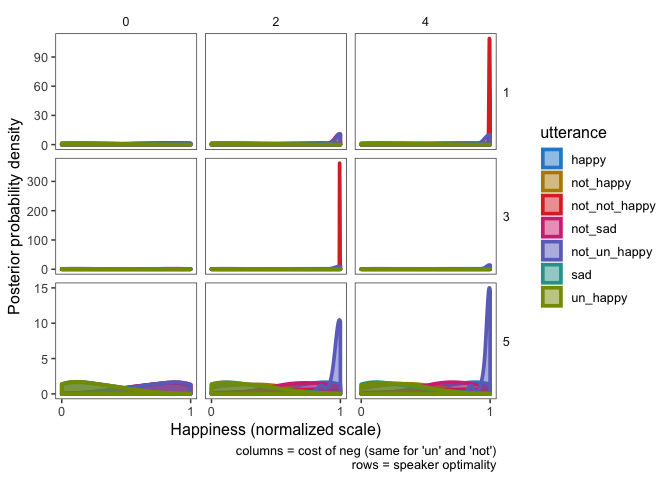
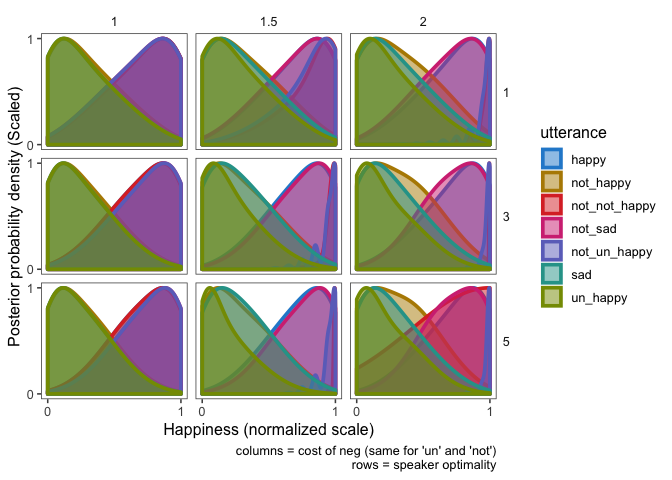
update model simulations with better multicost fn

diff --git a/models/multiplicativeCost-models.md b/models/multiplicativeCost-models.md
@@ -4,7 +4,7 @@ MH Tessler
 March 11, 2019
 
 ``` r
-knitr::opts_chunk$set(warning=F, cache=T, message=F, sanitize = T)
+knitr::opts_chunk$set(warning=F, cache=F, message=F, sanitize = T)
 ```
 
 ``` r
@@ -41,7 +41,7 @@ If “sad” is in alternative set, new threshold for “sad”
 ``` r
 pragListener.params <- expand.grid(
   speaker_optimality = c(1, 3, 5),
-  cost_neg = c(0, 2, 4),
+  #cost_neg = c(0, 2, 4),
   multiplicative_cost = c(T, F),
   alternative_utterances = c("a1", "a2", "a3", "a4", "a5", "a6")
 )
@@ -56,7 +56,7 @@ pragListener.params <- expand.grid(
 
 rs.listener.wp.tidy <- webppl(program_file = "webppl_models/bonafide_antonyms.wppl",
                          data = pragListener.params,
-                         data_var = "all_opts")  %>%
+                         data_var = "all_opts") %>%
   bind_rows(.) 
 # %>%
 #          mutate(utterance = factor(utterance,
@@ -76,13 +76,14 @@ makeParameterTablePlot= function(df){
   # print(alternative_utterances)
   df %>%
   ggplot(., aes( x = state, fill = utterance, color = utterance))+
-  geom_density(alpha = 0.5, size = 1.3, adjust = 3)+
+  geom_density(alpha = 0.5, size = 1.3, adjust = 3, aes(y = ..scaled..))+
   scale_fill_solarized()+
   scale_color_solarized()+
   facet_grid(speaker_optimality~cost_neg, scales = 'free')+
-  labs(x = "Happiness (normalized scale)", y = "Posterior probability density",
+  labs(x = "Happiness (normalized scale)", y = "Posterior probability density (Scaled)",
        caption = "columns = cost of neg (same for 'un' and 'not')\n rows = speaker optimality")+
   scale_x_continuous(breaks =c(0, 1), limits = c(0, 1))+
+  scale_y_continuous(breaks =c(0, 1), limits = c(0, 1))+
   theme(strip.text.y = element_text(angle  = 0))
 }
 ```
@@ -139,8 +140,10 @@ rs.listener.wp.tidy.samples %>%
 ```
 
 ![](multiplicativeCost-models_files/figure-gfm/unnamed-chunk-8-1.png)<!-- -->
-\#\# Alternative Set 3: \[“happy”, “not unhappy”, “not happy”,
-“unhappy”, “not not happy”\]
+Parameter settings are too extreme for cost = 2, optimality =
+5.
+
+## Alternative Set 3: \[“happy”, “not unhappy”, “not happy”, “unhappy”, “not not happy”\]
 
 ### Additive costs
 
